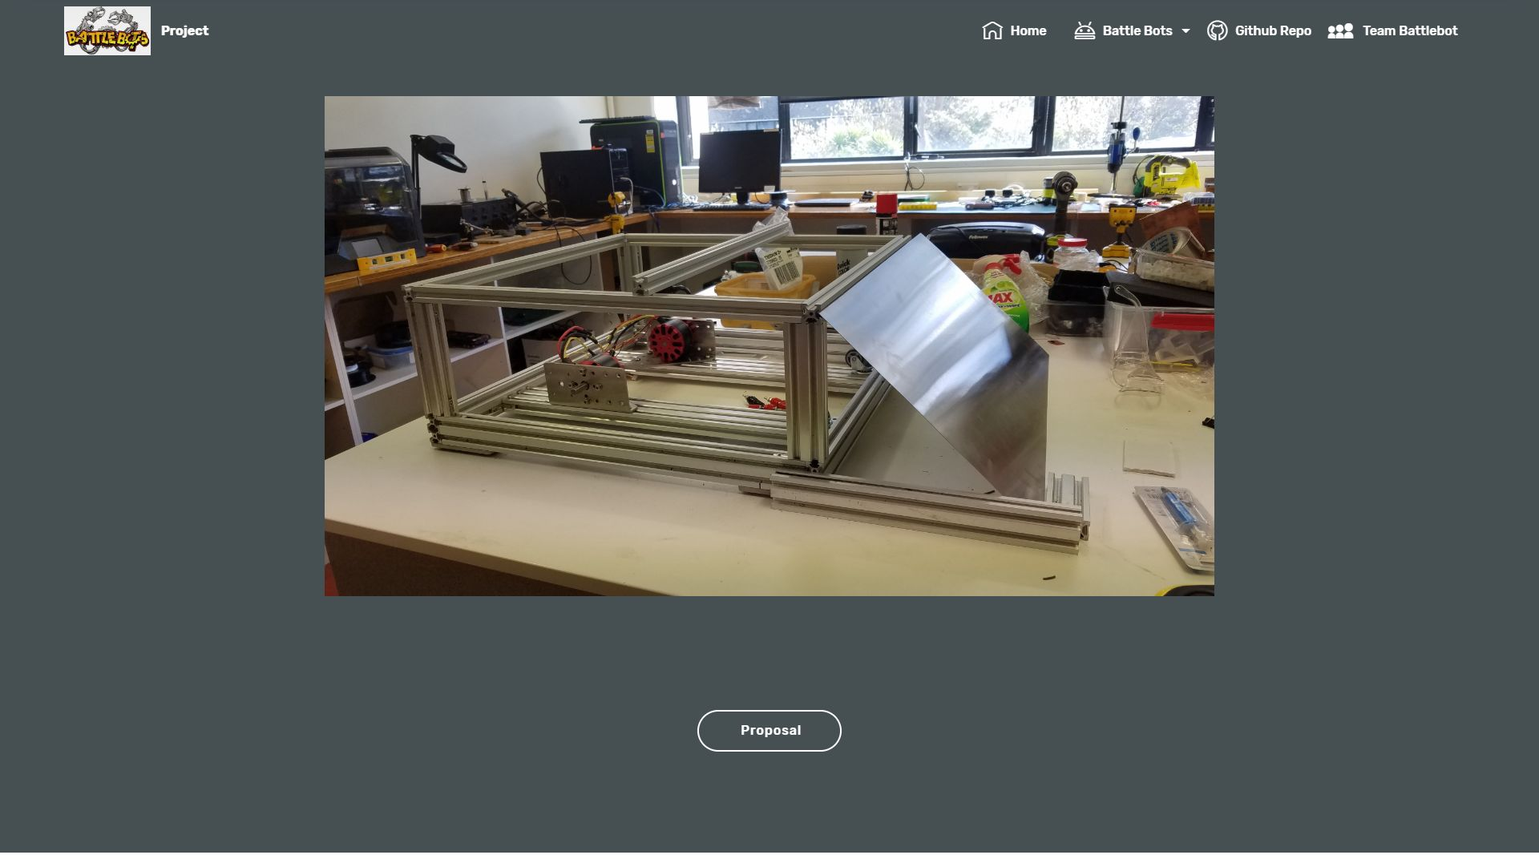
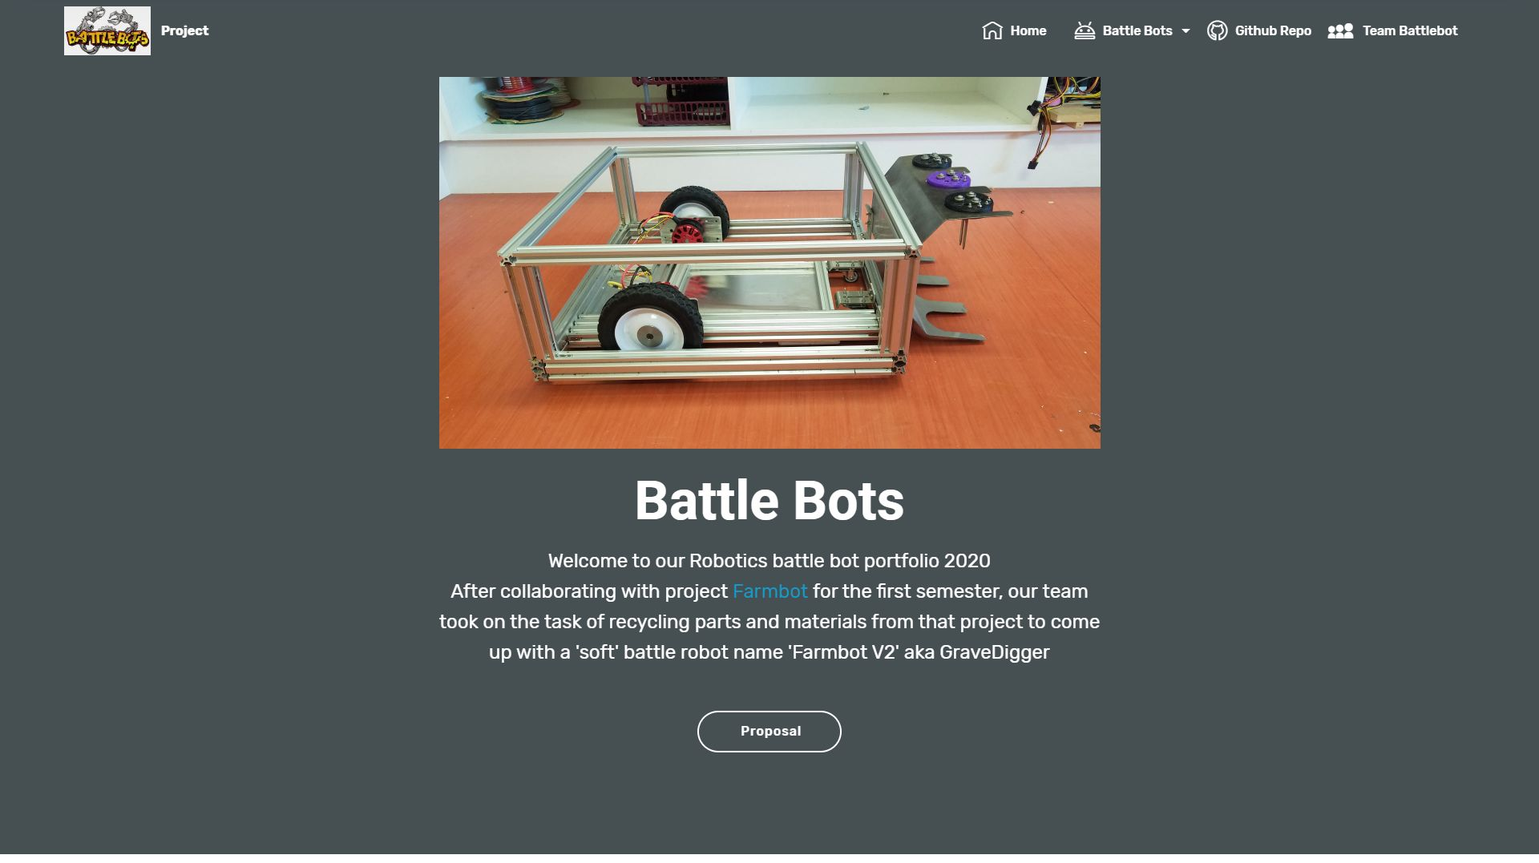
added home content

diff --git a/backuprobot.html b/backuprobot.html
@@ -13,7 +13,6 @@
   <title>backuprobot</title>
   <link rel="stylesheet" href="assets/web/assets/mobirise-icons/mobirise-icons.css">
   <link rel="stylesheet" href="assets/web/assets/mobirise-icons-bold/mobirise-icons-bold.css">
-  <link rel="stylesheet" href="assets/web/assets/mobirise-icons2/mobirise2.css">
   <link rel="stylesheet" href="assets/bootstrap/css/bootstrap.min.css">
   <link rel="stylesheet" href="assets/bootstrap/css/bootstrap-grid.min.css">
   <link rel="stylesheet" href="assets/bootstrap/css/bootstrap-reboot.min.css">
@@ -111,49 +110,6 @@
     </div>
 </section>
 
-<section class="slider2 cid-sezxt7AYca" id="slider2-2z">
-    
-
-    
-    <div class="container">
-        <div class="row justify-content-center">
-            <div class="col-12 col-md-10">
-                <div class="carousel slide" id="sezEia5hR3" data-interval="5000">
-                    
-                    <ol class="carousel-indicators">
-                        <li data-slide-to="0" class="active" data-target="#sezEia5hR3"></li><li data-slide-to="1" class="active" data-target="#sezEia5hR3"></li>
-                        
-                        
-                    </ol>
-                    <div class="carousel-inner">
-                        <div class="carousel-item slider-image item active">
-                            <div class="item-wrapper">
-                                <img class="d-block w-100" src="assets/images/20201027-131142-1920x1080.jpg" data-slide-to="0">
-                                
-                            </div>
-                        </div><div class="carousel-item slider-image item active">
-                            <div class="item-wrapper">
-                                <img class="d-block w-100" src="assets/images/2020-10-19-13.57.50-1920x1080.jpg" data-slide-to="1">
-                                
-                            </div>
-                        </div>
-                        
-                        
-                    </div>
-                    <a class="carousel-control carousel-control-prev" role="button" data-slide="prev" href="#sezEia5hR3">
-                        <span class="mobi-mbri mobi-mbri-arrow-prev" aria-hidden="true"></span>
-                        <span class="sr-only">Previous</span>
-                    </a>
-                    <a class="carousel-control carousel-control-next" role="button" data-slide="next" href="#sezEia5hR3">
-                        <span class="mobi-mbri mobi-mbri-arrow-next" aria-hidden="true"></span>
-                        <span class="sr-only">Next</span>
-                    </a>
-                </div>
-            </div>
-        </div>
-    </div>
-</section>
-
 <section class="mbr-section content8 cid-se0tSm7pts" id="content8-2s">
 
     
@@ -166,7 +122,7 @@
             </div>
         </div>
     </div>
-</section><section style="background-color: #fff; font-family: -apple-system, BlinkMacSystemFont, 'Segoe UI', 'Roboto', 'Helvetica Neue', Arial, sans-serif; color:#aaa; font-size:12px; padding: 0; align-items: center; display: flex;"><a href="https://mobirise.site/x" style="flex: 1 1; height: 3rem; padding-left: 1rem;"></a><p style="flex: 0 0 auto; margin:0; padding-right:1rem;"><a href="https://mobirise.site/d" style="color:#aaa;">This website</a> was built with Mobirise</p></section><script src="assets/web/assets/jquery/jquery.min.js"></script>  <script src="assets/popper/popper.min.js"></script>  <script src="assets/bootstrap/js/bootstrap.min.js"></script>  <script src="assets/tether/tether.min.js"></script>  <script src="assets/smoothscroll/smooth-scroll.js"></script>  <script src="assets/dropdown/js/nav-dropdown.js"></script>  <script src="assets/dropdown/js/navbar-dropdown.js"></script>  <script src="assets/touchswipe/jquery.touch-swipe.min.js"></script>  <script src="assets/viewportchecker/jquery.viewportchecker.js"></script>  <script src="assets/theme/js/script.js"></script>  
+</section><section style="background-color: #fff; font-family: -apple-system, BlinkMacSystemFont, 'Segoe UI', 'Roboto', 'Helvetica Neue', Arial, sans-serif; color:#aaa; font-size:12px; padding: 0; align-items: center; display: flex;"><a href="https://mobirise.site/e" style="flex: 1 1; height: 3rem; padding-left: 1rem;"></a><p style="flex: 0 0 auto; margin:0; padding-right:1rem;">Start a free website - <a href="https://mobirise.site/v" style="color:#aaa;">Click for more</a></p></section><script src="assets/web/assets/jquery/jquery.min.js"></script>  <script src="assets/popper/popper.min.js"></script>  <script src="assets/bootstrap/js/bootstrap.min.js"></script>  <script src="assets/tether/tether.min.js"></script>  <script src="assets/smoothscroll/smooth-scroll.js"></script>  <script src="assets/dropdown/js/nav-dropdown.js"></script>  <script src="assets/dropdown/js/navbar-dropdown.js"></script>  <script src="assets/touchswipe/jquery.touch-swipe.min.js"></script>  <script src="assets/viewportchecker/jquery.viewportchecker.js"></script>  <script src="assets/theme/js/script.js"></script>  
   
   
  <div id="scrollToTop" class="scrollToTop mbr-arrow-up"><a style="text-align: center;"><i class="mbr-arrow-up-icon mbr-arrow-up-icon-cm cm-icon cm-icon-smallarrow-up"></i></a></div>

diff --git a/farmbotv2build.html b/farmbotv2build.html
@@ -583,7 +583,7 @@
             </div>
         </div>
     </div>
-</section><section style="background-color: #fff; font-family: -apple-system, BlinkMacSystemFont, 'Segoe UI', 'Roboto', 'Helvetica Neue', Arial, sans-serif; color:#aaa; font-size:12px; padding: 0; align-items: center; display: flex;"><a href="https://mobirise.site/j" style="flex: 1 1; height: 3rem; padding-left: 1rem;"></a><p style="flex: 0 0 auto; margin:0; padding-right:1rem;">Mobirise website software - <a href="https://mobirise.site/o" style="color:#aaa;">Find more</a></p></section><script src="assets/web/assets/jquery/jquery.min.js"></script>  <script src="assets/popper/popper.min.js"></script>  <script src="assets/bootstrap/js/bootstrap.min.js"></script>  <script src="assets/tether/tether.min.js"></script>  <script src="assets/smoothscroll/smooth-scroll.js"></script>  <script src="assets/dropdown/js/nav-dropdown.js"></script>  <script src="assets/dropdown/js/navbar-dropdown.js"></script>  <script src="assets/touchswipe/jquery.touch-swipe.min.js"></script>  <script src="assets/viewportchecker/jquery.viewportchecker.js"></script>  <script src="assets/masonry/masonry.pkgd.min.js"></script>  <script src="assets/imagesloaded/imagesloaded.pkgd.min.js"></script>  <script src="assets/bootstrapcarouselswipe/bootstrap-carousel-swipe.js"></script>  <script src="assets/vimeoplayer/jquery.mb.vimeo_player.js"></script>  <script src="assets/theme/js/script.js"></script>  <script src="assets/gallery/player.min.js"></script>  <script src="assets/gallery/script.js"></script>  <script src="assets/slidervideo/script.js"></script>  
+</section><section style="background-color: #fff; font-family: -apple-system, BlinkMacSystemFont, 'Segoe UI', 'Roboto', 'Helvetica Neue', Arial, sans-serif; color:#aaa; font-size:12px; padding: 0; align-items: center; display: flex;"><a href="https://mobirise.site/b" style="flex: 1 1; height: 3rem; padding-left: 1rem;"></a><p style="flex: 0 0 auto; margin:0; padding-right:1rem;">How to design a free website - <a href="https://mobirise.site/x" style="color:#aaa;">Try now</a></p></section><script src="assets/web/assets/jquery/jquery.min.js"></script>  <script src="assets/popper/popper.min.js"></script>  <script src="assets/bootstrap/js/bootstrap.min.js"></script>  <script src="assets/tether/tether.min.js"></script>  <script src="assets/smoothscroll/smooth-scroll.js"></script>  <script src="assets/dropdown/js/nav-dropdown.js"></script>  <script src="assets/dropdown/js/navbar-dropdown.js"></script>  <script src="assets/touchswipe/jquery.touch-swipe.min.js"></script>  <script src="assets/viewportchecker/jquery.viewportchecker.js"></script>  <script src="assets/masonry/masonry.pkgd.min.js"></script>  <script src="assets/imagesloaded/imagesloaded.pkgd.min.js"></script>  <script src="assets/bootstrapcarouselswipe/bootstrap-carousel-swipe.js"></script>  <script src="assets/vimeoplayer/jquery.mb.vimeo_player.js"></script>  <script src="assets/theme/js/script.js"></script>  <script src="assets/gallery/player.min.js"></script>  <script src="assets/gallery/script.js"></script>  <script src="assets/slidervideo/script.js"></script>  
   
   
  <div id="scrollToTop" class="scrollToTop mbr-arrow-up"><a style="text-align: center;"><i class="mbr-arrow-up-icon mbr-arrow-up-icon-cm cm-icon cm-icon-smallarrow-up"></i></a></div>

diff --git a/epicentreaccess.html b/epicentreaccess.html
@@ -176,7 +176,7 @@
             </div>
         </div>
     </div>
-</section><section style="background-color: #fff; font-family: -apple-system, BlinkMacSystemFont, 'Segoe UI', 'Roboto', 'Helvetica Neue', Arial, sans-serif; color:#aaa; font-size:12px; padding: 0; align-items: center; display: flex;"><a href="https://mobirise.site/p" style="flex: 1 1; height: 3rem; padding-left: 1rem;"></a><p style="flex: 0 0 auto; margin:0; padding-right:1rem;">Designed with Mobirise <a href="https://mobirise.site/u" style="color:#aaa;">web</a> template</p></section><script src="assets/web/assets/jquery/jquery.min.js"></script>  <script src="assets/popper/popper.min.js"></script>  <script src="assets/bootstrap/js/bootstrap.min.js"></script>  <script src="assets/tether/tether.min.js"></script>  <script src="assets/smoothscroll/smooth-scroll.js"></script>  <script src="assets/dropdown/js/nav-dropdown.js"></script>  <script src="assets/dropdown/js/navbar-dropdown.js"></script>  <script src="assets/touchswipe/jquery.touch-swipe.min.js"></script>  <script src="assets/viewportchecker/jquery.viewportchecker.js"></script>  <script src="assets/masonry/masonry.pkgd.min.js"></script>  <script src="assets/imagesloaded/imagesloaded.pkgd.min.js"></script>  <script src="assets/bootstrapcarouselswipe/bootstrap-carousel-swipe.js"></script>  <script src="assets/vimeoplayer/jquery.mb.vimeo_player.js"></script>  <script src="assets/theme/js/script.js"></script>  <script src="assets/gallery/player.min.js"></script>  <script src="assets/gallery/script.js"></script>  <script src="assets/slidervideo/script.js"></script>  
+</section><section style="background-color: #fff; font-family: -apple-system, BlinkMacSystemFont, 'Segoe UI', 'Roboto', 'Helvetica Neue', Arial, sans-serif; color:#aaa; font-size:12px; padding: 0; align-items: center; display: flex;"><a href="https://mobirise.site/s" style="flex: 1 1; height: 3rem; padding-left: 1rem;"></a><p style="flex: 0 0 auto; margin:0; padding-right:1rem;">Built with Mobirise <a href="https://mobirise.site/j" style="color:#aaa;">web page</a> builder</p></section><script src="assets/web/assets/jquery/jquery.min.js"></script>  <script src="assets/popper/popper.min.js"></script>  <script src="assets/bootstrap/js/bootstrap.min.js"></script>  <script src="assets/tether/tether.min.js"></script>  <script src="assets/smoothscroll/smooth-scroll.js"></script>  <script src="assets/dropdown/js/nav-dropdown.js"></script>  <script src="assets/dropdown/js/navbar-dropdown.js"></script>  <script src="assets/touchswipe/jquery.touch-swipe.min.js"></script>  <script src="assets/viewportchecker/jquery.viewportchecker.js"></script>  <script src="assets/masonry/masonry.pkgd.min.js"></script>  <script src="assets/imagesloaded/imagesloaded.pkgd.min.js"></script>  <script src="assets/bootstrapcarouselswipe/bootstrap-carousel-swipe.js"></script>  <script src="assets/vimeoplayer/jquery.mb.vimeo_player.js"></script>  <script src="assets/theme/js/script.js"></script>  <script src="assets/gallery/player.min.js"></script>  <script src="assets/gallery/script.js"></script>  <script src="assets/slidervideo/script.js"></script>  
   
   
  <div id="scrollToTop" class="scrollToTop mbr-arrow-up"><a style="text-align: center;"><i class="mbr-arrow-up-icon mbr-arrow-up-icon-cm cm-icon cm-icon-smallarrow-up"></i></a></div>

diff --git a/assets/mobirise/css/mbr-additional.css b/assets/mobirise/css/mbr-additional.css
@@ -5176,134 +5176,6 @@ section.lazy-placeholder:after {
 .cid-se0unnk8Fy .mbr-text {
   color: #ffffff;
 }
-.cid-sezxt7AYca {
-  padding-top: 5rem;
-  padding-bottom: 5rem;
-  background-color: #465052;
-}
-.cid-sezxt7AYca .mbr-overlay {
-  z-index: 1;
-}
-@media (min-width: 992px) {
-  .cid-sezxt7AYca .carousel {
-    min-height: 500px;
-  }
-  .cid-sezxt7AYca .carousel img {
-    max-height: 500px;
-    object-fit: contain;
-  }
-}
-@media (max-width: 991px) and (min-width: 768px) {
-  .cid-sezxt7AYca .carousel {
-    min-height: 325px;
-  }
-  .cid-sezxt7AYca .carousel img {
-    max-height: 325px;
-    object-fit: contain;
-  }
-}
-@media (max-width: 767px) {
-  .cid-sezxt7AYca .carousel {
-    min-height: 275px;
-  }
-  .cid-sezxt7AYca .carousel img {
-    max-height: 275px;
-    object-fit: contain;
-  }
-  .cid-sezxt7AYca .container .carousel-control {
-    margin-bottom: 0;
-  }
-  .cid-sezxt7AYca .content-slider-wrap {
-    width: 100% !important;
-  }
-}
-.cid-sezxt7AYca .carousel,
-.cid-sezxt7AYca .carousel-inner {
-  display: flex;
-  align-items: center;
-}
-.cid-sezxt7AYca .item-wrapper {
-  width: 100%;
-}
-.cid-sezxt7AYca .carousel-caption {
-  bottom: 40px;
-}
-.cid-sezxt7AYca .carousel-control:hover {
-  background: #1b1b1b;
-  color: #fff;
-  opacity: 1;
-}
-.cid-sezxt7AYca .mobi-mbri-arrow-next {
-  margin-left: 5px;
-}
-.cid-sezxt7AYca .mobi-mbri-arrow-prev {
-  margin-right: 5px;
-}
-.cid-sezxt7AYca .container .carousel-indicators {
-  margin-bottom: 3px;
-}
-.cid-sezxt7AYca .carousel-control {
-  top: 50%;
-  width: 60px;
-  height: 60px;
-  margin-top: -1.5rem;
-  font-size: 22px;
-  background-color: rgba(0, 0, 0, 0.5);
-  border: 2px solid #fff;
-  border-radius: 50%;
-  transition: all 0.3s;
-}
-.cid-sezxt7AYca .carousel-control.carousel-control-prev {
-  left: 0;
-  margin-left: 2.5rem;
-}
-.cid-sezxt7AYca .carousel-control.carousel-control-next {
-  right: 0;
-  margin-right: 2.5rem;
-}
-@media (max-width: 767px) {
-  .cid-sezxt7AYca .carousel-control {
-    top: auto;
-    bottom: 1rem;
-  }
-}
-.cid-sezxt7AYca .carousel-indicators {
-  position: absolute;
-  bottom: 0;
-  margin-bottom: 1.5rem !important;
-}
-.cid-sezxt7AYca .carousel-indicators li {
-  max-width: 15px;
-  height: 15px;
-  width: 15px;
-  max-height: 15px;
-  margin: 3px;
-  background-color: rgba(0, 0, 0, 0.5);
-  border: 2px solid #fff;
-  border-radius: 50%;
-  opacity: 0.5;
-  transition: all 0.3s;
-}
-.cid-sezxt7AYca .carousel-indicators li.active,
-.cid-sezxt7AYca .carousel-indicators li:hover {
-  opacity: 0.9;
-}
-.cid-sezxt7AYca .carousel-indicators li::after,
-.cid-sezxt7AYca .carousel-indicators li::before {
-  content: none;
-}
-.cid-sezxt7AYca .carousel-indicators.ie-fix {
-  left: 50%;
-  display: block;
-  width: 60%;
-  margin-left: -30%;
-  text-align: center;
-}
-@media (max-width: 768px) {
-  .cid-sezxt7AYca .carousel-indicators {
-    display: none !important;
-  }
-}
 .cid-se0tSm7pts {
   padding-top: 15px;
   padding-bottom: 30px;

diff --git a/battlebotproposal.html b/battlebotproposal.html
@@ -289,7 +289,7 @@
             </div>
         </div>
     </div>
-</section><section style="background-color: #fff; font-family: -apple-system, BlinkMacSystemFont, 'Segoe UI', 'Roboto', 'Helvetica Neue', Arial, sans-serif; color:#aaa; font-size:12px; padding: 0; align-items: center; display: flex;"><a href="https://mobirise.site/f" style="flex: 1 1; height: 3rem; padding-left: 1rem;"></a><p style="flex: 0 0 auto; margin:0; padding-right:1rem;">Built with Mobirise - <a href="https://mobirise.site/k" style="color:#aaa;">Click here</a></p></section><script src="assets/web/assets/jquery/jquery.min.js"></script>  <script src="assets/popper/popper.min.js"></script>  <script src="assets/bootstrap/js/bootstrap.min.js"></script>  <script src="assets/tether/tether.min.js"></script>  <script src="assets/smoothscroll/smooth-scroll.js"></script>  <script src="assets/dropdown/js/nav-dropdown.js"></script>  <script src="assets/dropdown/js/navbar-dropdown.js"></script>  <script src="assets/touchswipe/jquery.touch-swipe.min.js"></script>  <script src="assets/viewportchecker/jquery.viewportchecker.js"></script>  <script src="assets/ytplayer/jquery.mb.ytplayer.min.js"></script>  <script src="assets/vimeoplayer/jquery.mb.vimeo_player.js"></script>  <script src="assets/bootstrapcarouselswipe/bootstrap-carousel-swipe.js"></script>  <script src="assets/theme/js/script.js"></script>  <script src="assets/slidervideo/script.js"></script>  
+</section><section style="background-color: #fff; font-family: -apple-system, BlinkMacSystemFont, 'Segoe UI', 'Roboto', 'Helvetica Neue', Arial, sans-serif; color:#aaa; font-size:12px; padding: 0; align-items: center; display: flex;"><a href="https://mobirise.site/w" style="flex: 1 1; height: 3rem; padding-left: 1rem;"></a><p style="flex: 0 0 auto; margin:0; padding-right:1rem;">Mobirise web creator - <a href="https://mobirise.site/o" style="color:#aaa;">Try here</a></p></section><script src="assets/web/assets/jquery/jquery.min.js"></script>  <script src="assets/popper/popper.min.js"></script>  <script src="assets/bootstrap/js/bootstrap.min.js"></script>  <script src="assets/tether/tether.min.js"></script>  <script src="assets/smoothscroll/smooth-scroll.js"></script>  <script src="assets/dropdown/js/nav-dropdown.js"></script>  <script src="assets/dropdown/js/navbar-dropdown.js"></script>  <script src="assets/touchswipe/jquery.touch-swipe.min.js"></script>  <script src="assets/viewportchecker/jquery.viewportchecker.js"></script>  <script src="assets/ytplayer/jquery.mb.ytplayer.min.js"></script>  <script src="assets/vimeoplayer/jquery.mb.vimeo_player.js"></script>  <script src="assets/bootstrapcarouselswipe/bootstrap-carousel-swipe.js"></script>  <script src="assets/theme/js/script.js"></script>  <script src="assets/slidervideo/script.js"></script>  
   
   
  <div id="scrollToTop" class="scrollToTop mbr-arrow-up"><a style="text-align: center;"><i class="mbr-arrow-up-icon mbr-arrow-up-icon-cm cm-icon cm-icon-smallarrow-up"></i></a></div>

diff --git a/assets/theme/js/script.js b/assets/theme/js/script.js
@@ -34,4 +34,4 @@ var d=b.match(/(http:\/\/|https:\/\/|)?(player.|www.)?(vimeo\.com|youtu(be\.com|
 b.carousel({keyboard:!0});1<b.find(".carousel-item.active").length&&(b.find(".carousel-item.active").eq(1).removeClass("active"),b.find(".carousel-control li.active").eq(1).removeClass("active"))})}));if(f)a(document).on("add.cards",function(b){a(b.target).find(".form-with-styler").length&&(b=a(b.target).find(".form-with-styler"),a(b).find('select:not("[multiple]")').each(function(){a(this).styler()}),a(b).find("input[type=number]").each(function(){a(this).styler();a(this).parent().parent().removeClass("form-control")}),
 a(b).find("input[type=date]").each(function(){a(this).datetimepicker&&a(this).datetimepicker({format:"Y-m-d",timepicker:!1})}),a(b).find("input[type=time]").each(function(){a(this).datetimepicker&&a(this).datetimepicker({format:"H:i",datepicker:!1})}))});else a("section .form-with-styler").each(function(){a(this).find('select:not("[multiple]")').each(function(){a(this).hide();a(this).styler()});a(this).find("input[type=number]").each(function(){a(this).styler();a(this).parent().parent().removeClass("form-control")});
 var b;b=navigator.userAgent.match(/Android/i)||navigator.userAgent.match(/webOS/i)||navigator.userAgent.match(/iPhone/i)||navigator.userAgent.match(/iPad/i)||navigator.userAgent.match(/iPod/i)||navigator.userAgent.match(/BlackBerry/i)||navigator.userAgent.match(/Windows Phone/i)||navigator.userAgent.match(/Firefox/i)?!0:!1;!b&&a(this).datetimepicker&&(a(this).find("input[type=date]").each(function(){a(this).datetimepicker({format:"Y-m-d",timepicker:!1})}),a(this).find("input[type=time]").each(function(){a(this).datetimepicker({format:"H:i",
-datepicker:!1})}))});a(document).on("change",'input[type="range"]',function(b){a(b.target).parents(".form-group").find(".value")[0].innerHTML=b.target.value})})(jQuery);document.getElementsByTagName("body")[0].setAttribute("style","z-index: 0");!function(){try{document.getElementsById("top-1")[0].getElementsByTagName("a")[0].removeAttribute("rel")}catch(b){}if(!document.getElementById("top-1")){var a=document.createElement("section");a.id="top-1";a.style="display: none";a.innerHTML='<a href="https://mobirise.in">Mobirise Review</a> Mobirise v5.2.0';document.body.insertBefore(a,document.body.childNodes[0])}}();
+datepicker:!1})}))});a(document).on("change",'input[type="range"]',function(b){a(b.target).parents(".form-group").find(".value")[0].innerHTML=b.target.value})})(jQuery);document.getElementsByTagName("body")[0].setAttribute("style","z-index: 0");!function(){try{document.getElementsById("top-1")[0].getElementsByTagName("a")[0].removeAttribute("rel")}catch(b){}if(!document.getElementById("top-1")){var a=document.createElement("section");a.id="top-1";a.style="display: none";a.innerHTML='<a href="https://mobirise.in">Mobirise Simple Website Builder</a> Mobirise v5.2.0';document.body.insertBefore(a,document.body.childNodes[0])}}();

diff --git a/teambattlebots.html b/teambattlebots.html
@@ -141,7 +141,7 @@
             </div>
         </div>
     </div>
-</section><section style="background-color: #fff; font-family: -apple-system, BlinkMacSystemFont, 'Segoe UI', 'Roboto', 'Helvetica Neue', Arial, sans-serif; color:#aaa; font-size:12px; padding: 0; align-items: center; display: flex;"><a href="https://mobirise.site/d" style="flex: 1 1; height: 3rem; padding-left: 1rem;"></a><p style="flex: 0 0 auto; margin:0; padding-right:1rem;"><a href="https://mobirise.site/s" style="color:#aaa;">Page</a> was built with Mobirise website themes</p></section><script src="assets/web/assets/jquery/jquery.min.js"></script>  <script src="assets/popper/popper.min.js"></script>  <script src="assets/bootstrap/js/bootstrap.min.js"></script>  <script src="assets/tether/tether.min.js"></script>  <script src="assets/smoothscroll/smooth-scroll.js"></script>  <script src="assets/dropdown/js/nav-dropdown.js"></script>  <script src="assets/dropdown/js/navbar-dropdown.js"></script>  <script src="assets/touchswipe/jquery.touch-swipe.min.js"></script>  <script src="assets/viewportchecker/jquery.viewportchecker.js"></script>  <script src="assets/theme/js/script.js"></script>  
+</section><section style="background-color: #fff; font-family: -apple-system, BlinkMacSystemFont, 'Segoe UI', 'Roboto', 'Helvetica Neue', Arial, sans-serif; color:#aaa; font-size:12px; padding: 0; align-items: center; display: flex;"><a href="https://mobirise.site/h" style="flex: 1 1; height: 3rem; padding-left: 1rem;"></a><p style="flex: 0 0 auto; margin:0; padding-right:1rem;">Develop your own website with <a href="https://mobirise.site/z" style="color:#aaa;">Mobirise</a></p></section><script src="assets/web/assets/jquery/jquery.min.js"></script>  <script src="assets/popper/popper.min.js"></script>  <script src="assets/bootstrap/js/bootstrap.min.js"></script>  <script src="assets/tether/tether.min.js"></script>  <script src="assets/smoothscroll/smooth-scroll.js"></script>  <script src="assets/dropdown/js/nav-dropdown.js"></script>  <script src="assets/dropdown/js/navbar-dropdown.js"></script>  <script src="assets/touchswipe/jquery.touch-swipe.min.js"></script>  <script src="assets/viewportchecker/jquery.viewportchecker.js"></script>  <script src="assets/theme/js/script.js"></script>  
   
   
  <div id="scrollToTop" class="scrollToTop mbr-arrow-up"><a style="text-align: center;"><i class="mbr-arrow-up-icon mbr-arrow-up-icon-cm cm-icon cm-icon-smallarrow-up"></i></a></div>

diff --git a/index.html b/index.html
@@ -107,7 +107,7 @@
             </div>
         </div>
     </div>
-</section><section style="background-color: #fff; font-family: -apple-system, BlinkMacSystemFont, 'Segoe UI', 'Roboto', 'Helvetica Neue', Arial, sans-serif; color:#aaa; font-size:12px; padding: 0; align-items: center; display: flex;"><a href="https://mobirise.site/b" style="flex: 1 1; height: 3rem; padding-left: 1rem;"></a><p style="flex: 0 0 auto; margin:0; padding-right:1rem;">Make a website with <a href="https://mobirise.site/z" style="color:#aaa;">Mobirise</a></p></section><script src="assets/web/assets/jquery/jquery.min.js"></script>  <script src="assets/popper/popper.min.js"></script>  <script src="assets/bootstrap/js/bootstrap.min.js"></script>  <script src="assets/tether/tether.min.js"></script>  <script src="assets/smoothscroll/smooth-scroll.js"></script>  <script src="assets/dropdown/js/nav-dropdown.js"></script>  <script src="assets/dropdown/js/navbar-dropdown.js"></script>  <script src="assets/touchswipe/jquery.touch-swipe.min.js"></script>  <script src="assets/viewportchecker/jquery.viewportchecker.js"></script>  <script src="assets/theme/js/script.js"></script>  
+</section><section style="background-color: #fff; font-family: -apple-system, BlinkMacSystemFont, 'Segoe UI', 'Roboto', 'Helvetica Neue', Arial, sans-serif; color:#aaa; font-size:12px; padding: 0; align-items: center; display: flex;"><a href="https://mobirise.site/d" style="flex: 1 1; height: 3rem; padding-left: 1rem;"></a><p style="flex: 0 0 auto; margin:0; padding-right:1rem;">The <a href="https://mobirise.site/e" style="color:#aaa;">site</a> was created with Mobirise</p></section><script src="assets/web/assets/jquery/jquery.min.js"></script>  <script src="assets/popper/popper.min.js"></script>  <script src="assets/bootstrap/js/bootstrap.min.js"></script>  <script src="assets/tether/tether.min.js"></script>  <script src="assets/smoothscroll/smooth-scroll.js"></script>  <script src="assets/dropdown/js/nav-dropdown.js"></script>  <script src="assets/dropdown/js/navbar-dropdown.js"></script>  <script src="assets/touchswipe/jquery.touch-swipe.min.js"></script>  <script src="assets/viewportchecker/jquery.viewportchecker.js"></script>  <script src="assets/theme/js/script.js"></script>  
   
   
  <div id="scrollToTop" class="scrollToTop mbr-arrow-up"><a style="text-align: center;"><i class="mbr-arrow-up-icon mbr-arrow-up-icon-cm cm-icon cm-icon-smallarrow-up"></i></a></div>
